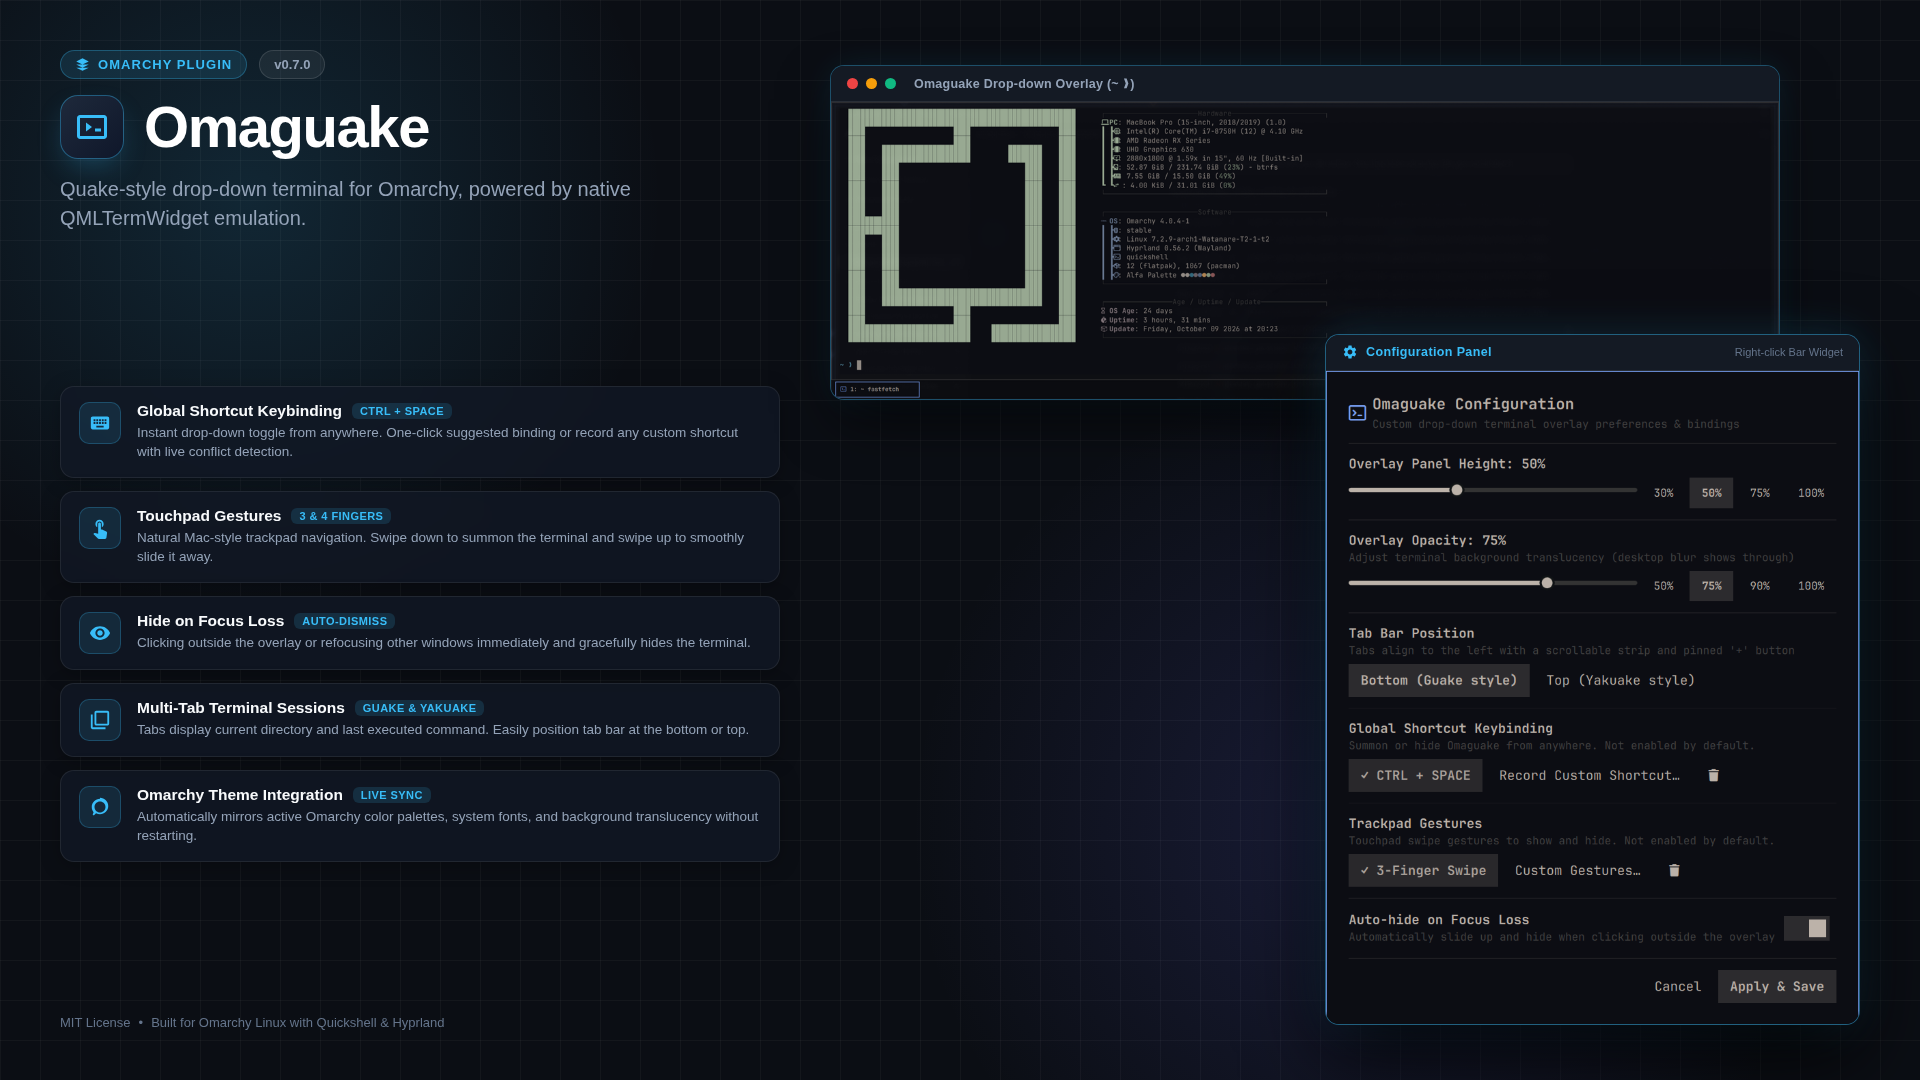
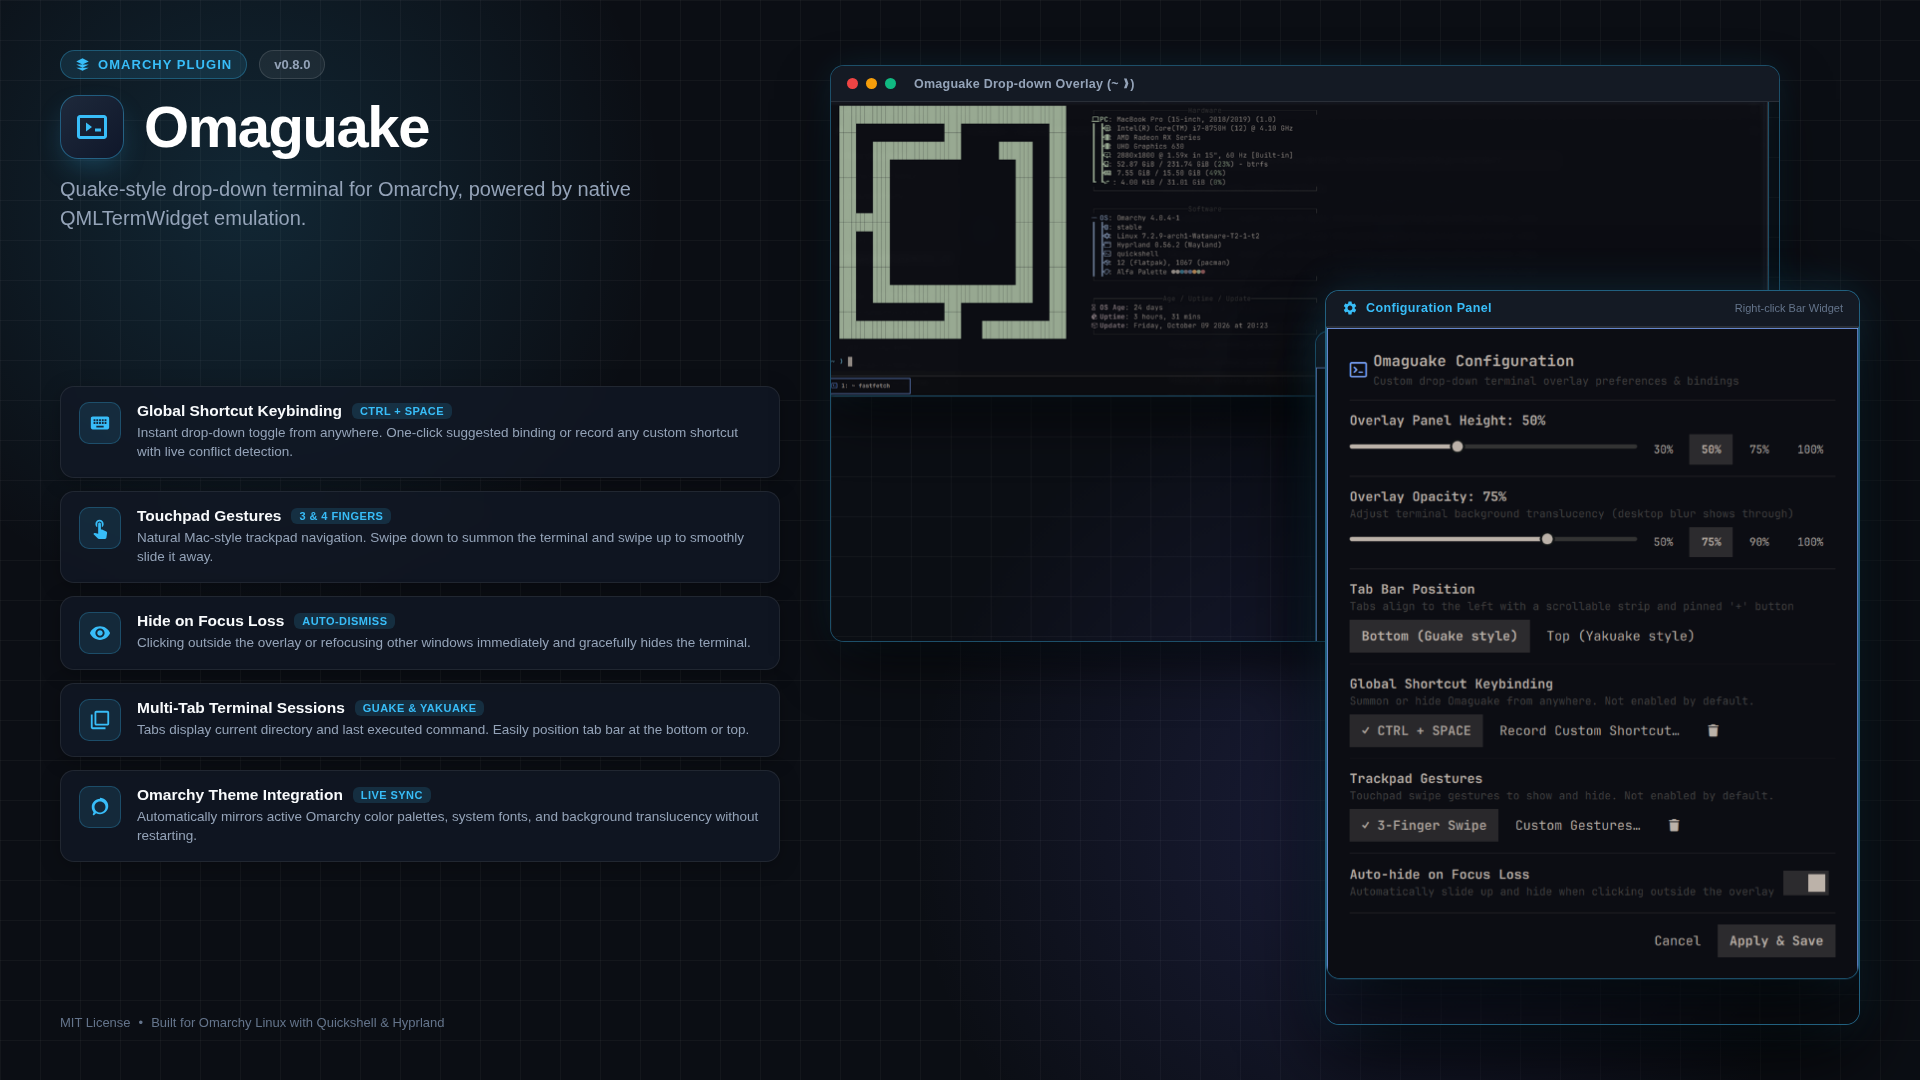
feat: live instant Omarchy theme synchronization, fix swipe up gesture, and bump version to 0.8.0

diff --git a/Overlay.qml b/Overlay.qml
@@ -48,6 +48,60 @@ Item {
     onFileChanged: reload()
   }
 
+  // Watch Omarchy theme state files directly
+  FileView {
+    id: omarchyThemeNameFile
+    path: Quickshell.env("HOME") + "/.local/state/omarchy/current/theme.name"
+    watchChanges: true
+    printErrors: false
+    onLoaded: root.reloadTheme()
+    onFileChanged: {
+      reload()
+      root.reloadTheme()
+    }
+  }
+
+  FileView {
+    id: omarchyColorsFile
+    path: Quickshell.env("HOME") + "/.local/state/omarchy/current/theme/colors.toml"
+    watchChanges: true
+    printErrors: false
+    onLoaded: root.reloadTheme()
+    onFileChanged: {
+      reload()
+      root.reloadTheme()
+    }
+  }
+
+  // Active inotifywait process monitoring Omarchy current directory across directory swaps
+  Process {
+    id: omarchyThemeWatcher
+    command: [
+      "inotifywait",
+      "-m",
+      "-q",
+      "-e", "close_write,moved_to",
+      "--format", "%f",
+      Quickshell.env("HOME") + "/.local/state/omarchy/current"
+    ]
+    running: true
+    stdout: SplitParser {
+      onRead: function(line) {
+        var f = String(line || "").trim()
+        if (f === "theme.name" || f === "theme" || f === "background" || f.indexOf("colors") !== -1) {
+          root.reloadTheme()
+        }
+      }
+    }
+    onExited: function(exitCode, exitStatus) {
+      Qt.callLater(function() {
+        if (!omarchyThemeWatcher.running) {
+          omarchyThemeWatcher.running = true
+        }
+      })
+    }
+  }
+
   FileView {
     id: clipboardBindsFile
     path: root.pluginDir + "/clipboard_binds.json"
@@ -400,11 +454,17 @@ Item {
         var name = String(text || "").trim()
         if (name.length > 0) {
           root.currentSchemeName = name
+          root.notifyTabsRetheme()
         }
       }
     }
     onExited: function(exitCode, exitStatus) {
+      currentSchemeFile.reload()
       root.notifyTabsRetheme()
+      if (root.themeReloadQueued) {
+        root.themeReloadQueued = false
+        Qt.callLater(function() { root.reloadTheme() })
+      }
     }
   }
 
@@ -444,11 +504,16 @@ Item {
     }
   }
 
+  property bool themeReloadQueued: false
+
   function reloadTheme() {
-    if (!themeSyncProc.running) {
-      themeSyncProc.command = [root.pluginDir + "/scripts/sync-theme.py"]
-      themeSyncProc.running = true
+    if (themeSyncProc.running) {
+      themeReloadQueued = true
+      return
     }
+    themeReloadQueued = false
+    themeSyncProc.command = [root.pluginDir + "/scripts/sync-theme.py"]
+    themeSyncProc.running = true
   }
 
   function notifyTabsRetheme() {
@@ -494,6 +559,7 @@ Item {
 
   onOpenedChanged: {
     if (opened) {
+      root.reloadTheme()
       focusPrimed = false
       focusPrimeTimer.restart()
     } else {

diff --git a/TerminalView.qml b/TerminalView.qml
@@ -276,26 +276,42 @@ Item {
       root.schemeName = newScheme
     }
     if (terminal) {
-      terminal.colorScheme = root.schemeName
+      if (typeof terminal.setBackgroundColor === "function" && Color.background) {
+        terminal.setBackgroundColor(Color.background)
+      }
+      if (typeof terminal.setForegroundColor === "function" && Color.foreground) {
+        terminal.setForegroundColor(Color.foreground)
+      }
+      if (root.schemeName && root.schemeName.length > 0) {
+        terminal.colorScheme = ""
+        terminal.colorScheme = root.schemeName
+      }
+      root.refreshTerminal()
     }
   }
 
   Connections {
     target: Color
     function onBackgroundChanged() {
+      if (terminal && typeof terminal.setBackgroundColor === "function" && Color.background) {
+        terminal.setBackgroundColor(Color.background)
+      }
       recolorTimer.restart()
     }
     function onForegroundChanged() {
+      if (terminal && typeof terminal.setForegroundColor === "function" && Color.foreground) {
+        terminal.setForegroundColor(Color.foreground)
+      }
       recolorTimer.restart()
     }
   }
 
   Timer {
     id: recolorTimer
-    interval: 80
+    interval: 50
     repeat: false
     onTriggered: {
-      root.reloadColorScheme()
+      root.reloadColorScheme(root.schemeName)
     }
   }
 

diff --git a/scripts/conflict-checker.py b/scripts/conflict-checker.py
@@ -288,8 +288,8 @@ def apply_configuration(keychord, enable_gestures, gesture_fingers=3, unbind_con
         
     if enable_gestures:
         block_lines.append(f'-- Omaguake Gestures: {gesture_fingers}-finger swipe down to show, swipe up to hide')
-        block_lines.append(f'hl.gesture({{ fingers = {gesture_fingers}, direction = "down", action = function() hl.dispatch(hl.dsp.global("bramvanoploo.omaguake:show")) end }})')
-        block_lines.append(f'hl.gesture({{ fingers = {gesture_fingers}, direction = "up", action = function() hl.dispatch(hl.dsp.global("bramvanoploo.omaguake:hide")) end }})')
+        block_lines.append(f'hl.gesture({{ fingers = {gesture_fingers}, direction = "down", action = function() hl.dispatch(hl.dsp.global("bramvanoploo.omaguake:show")) end, disable_inhibit = true }})')
+        block_lines.append(f'hl.gesture({{ fingers = {gesture_fingers}, direction = "up", action = function() hl.dispatch(hl.dsp.global("bramvanoploo.omaguake:hide")) end, disable_inhibit = true }})')
         
     block_lines.append("-- END bramvanoploo.omaguake")
     block_lines.append("")
